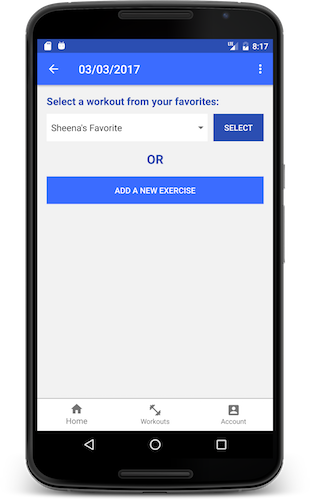
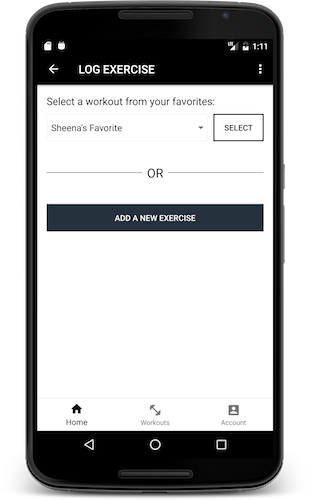
Update fitness app screenshots

diff --git a/projects.html b/projects.html
@@ -61,7 +61,7 @@
           <div class="col-md-6 description">
             <h3 class="text-center">Fitness Tracker</h3>
             <p>A fitness application for people who go to the gym regularly or are trying to exercise more often. Users can log their exercises to keep track of their daily activity. The main screen is a calendar that highlights which days the user has exercised. Because most people who frequent the gym usually have set routines, there is the option to "save this workout" so that users do not have to manually log the same routine again in the future.</p>
-            <p class="technologies">Java, Android SDK</p>
+            <p class="technologies">Java, Android SDK, Firebase</p>
             <a target="_blank" href="https://github.com/sheenanick/fitness-app"><img class="github-logo" src="img/icons/githublogo.png" alt="GitHub logo" /> GitHub repository</a>
           </div>
           <div class="col-md-3">
@@ -77,7 +77,7 @@
             <img class="img-responsive center mobile-img" src="img/fitness/newexercise2.png" alt="screenshot of Fitness Tracker app">
           </div>
           <div class="col-md-3">
-            <img class="img-responsive center mobile-img" src="img/fitness/day2.png" alt="screenshot of Fitness Tracker">
+            <img class="img-responsive center mobile-img" src="img/fitness/saveworkout.png" alt="screenshot of Fitness Tracker">
           </div>
           <div class="col-md-3">
             <img class="img-responsive center mobile-img" src="img/fitness/workouts.png" alt="screenshot of Fitness Tracker">
@@ -87,7 +87,7 @@
           <div class="col-md-6 description">
             <h3 class="text-center">pdxBranch App</h3>
             <p>An Android application for pdxBranch - a networking site for developers in the Portland, Oregon area. Currently, users can create an account and log in to create posts that are added to their news feed and profile. Posts can include pictures taken on the device. By default, 10 Meetup groups in the tech industry will be listed on the "Groups" screen, but users can also search for Meetup groups by entering key words into the search bar.</p>
-            <p class="technologies">Java, Android SDK</p>
+            <p class="technologies">Java, Android SDK, Firebase</p>
             <a target="_blank" href="https://github.com/sheenanick/pdx-branch-android"><img class="github-logo" src="img/icons/githublogo.png" alt="GitHub logo" /> GitHub repository</a>
           </div>
           <div class="col-md-3">
